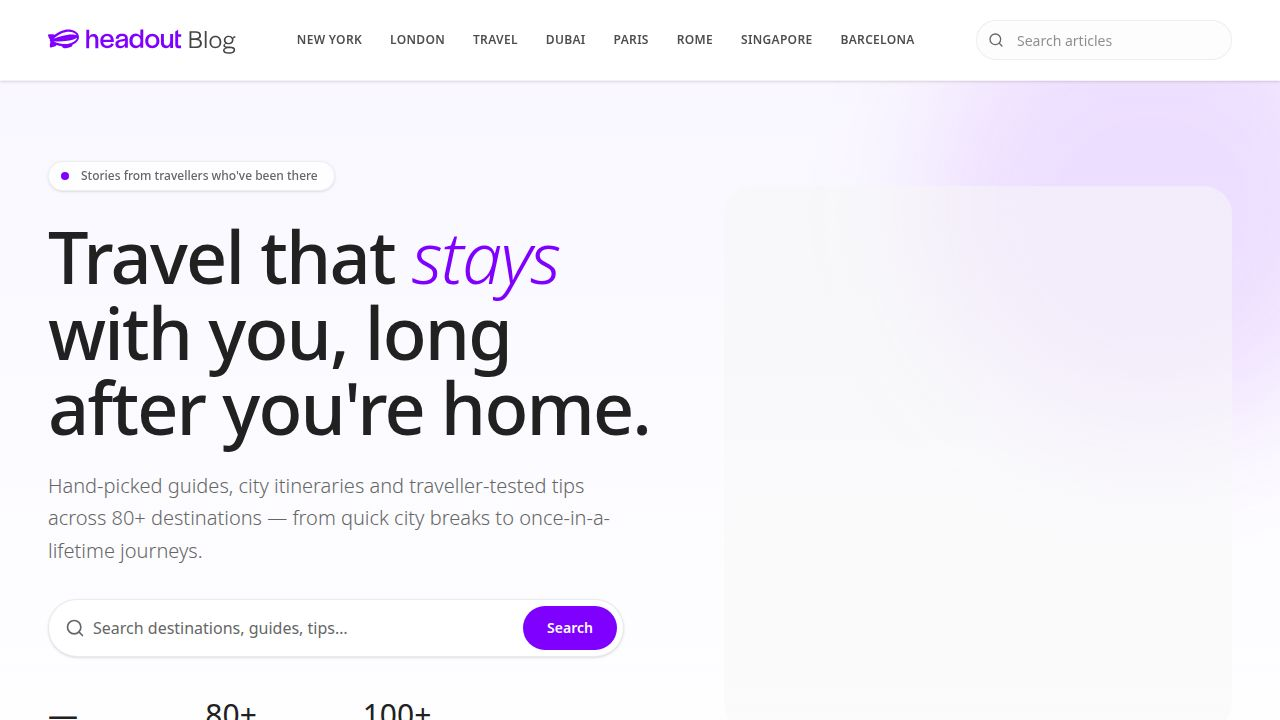
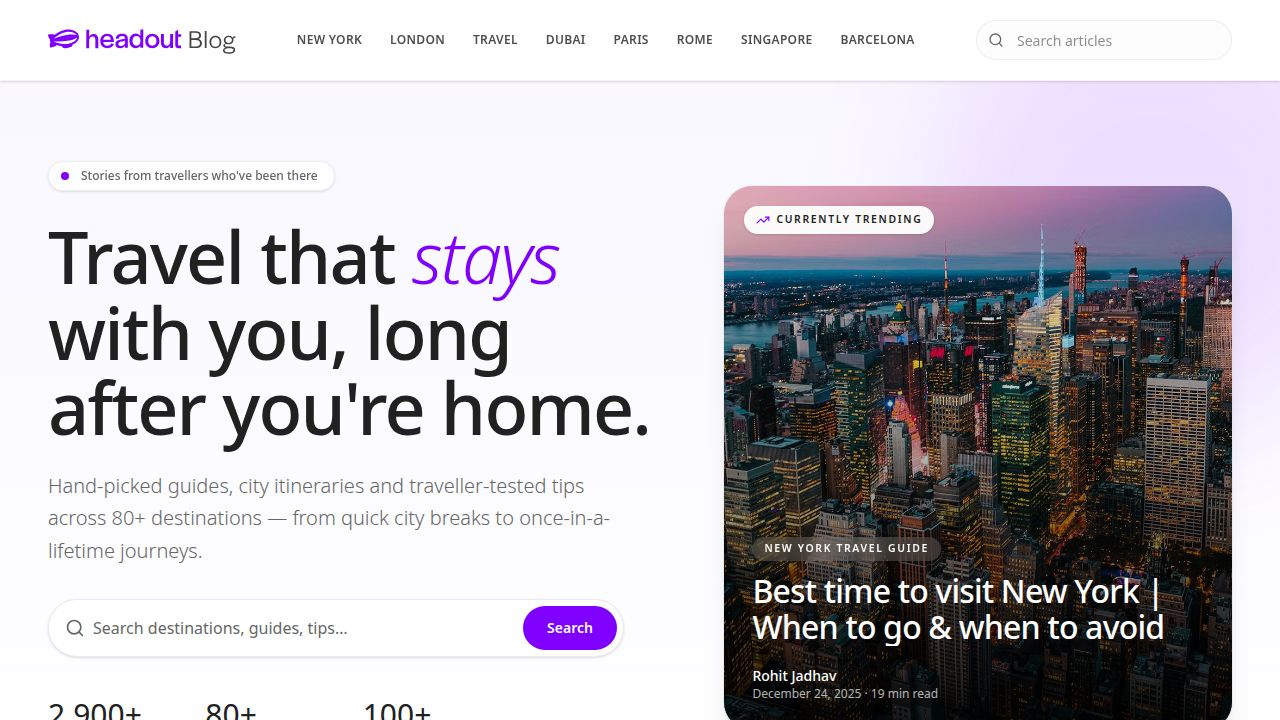
Style verdict/pros-cons callout cards as real accent callouts
Task #477: ensure the blog actually STYLES the .verdict-callout wrappers
emitted by renderVerdictCallouts (good/bad/pros/cons/proscons/verdict) so
they read as intentional callouts, not loose stacked text.

Findings:
- The base verdict-callout styling already existed in lib/ui/src/styles/theme.css
  (left-border + tinted bg keyed off --verdict-accent; green for good/pros,
  red for bad/cons, primary for verdict/proscons; carded heading).
- Bug: the generic `.blog-prose strong, b { text-foreground }` rule repainted
  the cue label black because migrated cue headings wrap their text in <strong>
  (e.g. <h6><strong>The Good</strong></h6>), so the accent heading colour never
  showed.

Change (CSS only, lib/ui/src/styles/theme.css):
- Added font-weight:700 to the callout heading.
- Added a rule so <strong>/<b> inside a verdict-callout heading inherit the
  accent colour, so the card title reads as one coloured unit.

Verification:
- Ran the Playwright testing subagent against two real articles:
  /blog/floating-market-bangkok/ (the-good = green card, the-bad = red card)
  and /blog/ferrari-world-abu-dhabi/ (pros-and-cons = accent card). Confirmed
  bordered/tinted/rounded cards with coloured headings.
- pnpm run typecheck:libs passes.

No markup/contract changes; renderVerdictCallouts untouched.

Replit-Task-Id: da3a67c2-0ab8-4f7b-b717-eaf89ee669b6

Changed region(s): [[0.5625, 0.2444, 0.9688, 1.0], [0.0312, 0.9778, 0.125, 1.0]]

diff --git a/lib/ui/src/styles/theme.css b/lib/ui/src/styles/theme.css
@@ -683,7 +683,14 @@
     margin-bottom: 0.55rem;
     font-size: 1.1rem;
     line-height: 1.3;
+    font-weight: 700;
     color: hsl(var(--verdict-accent));
+  }
+  /* The migrated cue heading often wraps its label in <strong>, which the   */
+  /* generic .blog-prose strong rule would repaint text-foreground — keep it */
+  /* in the accent hue so the card title reads as one coloured unit.         */
+  .blog-prose .verdict-callout > :where(h2, h3, h4, h5, h6) :where(strong, b) {
+    color: inherit;
   }
   .blog-prose .verdict-callout > :last-child {
     margin-bottom: 0;